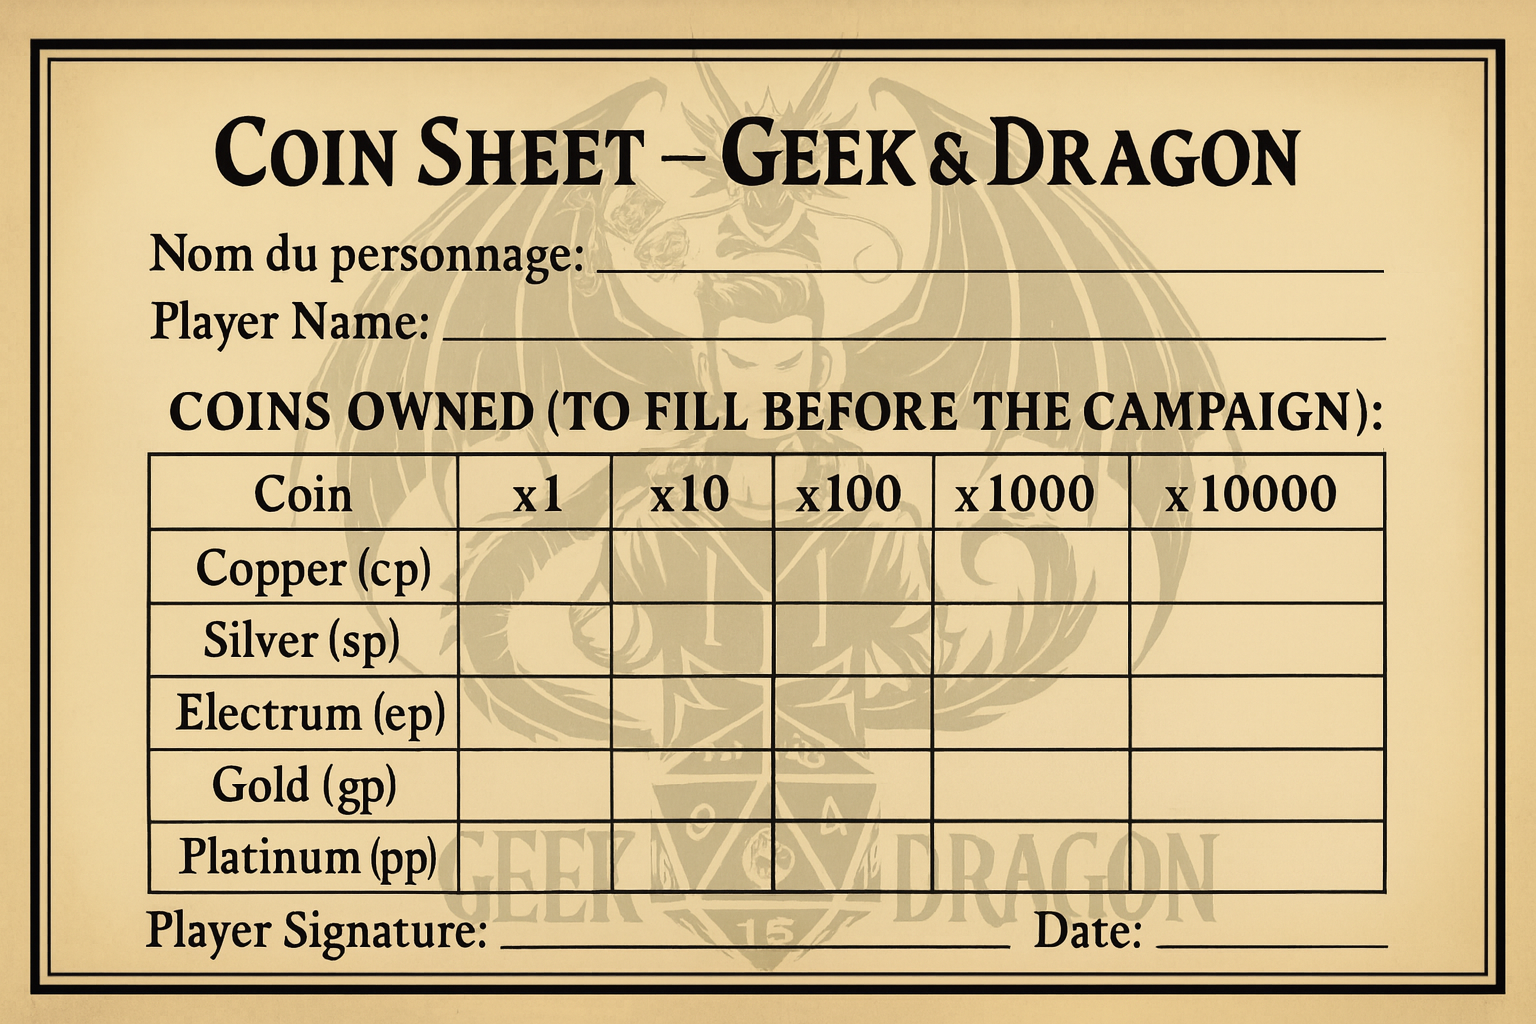
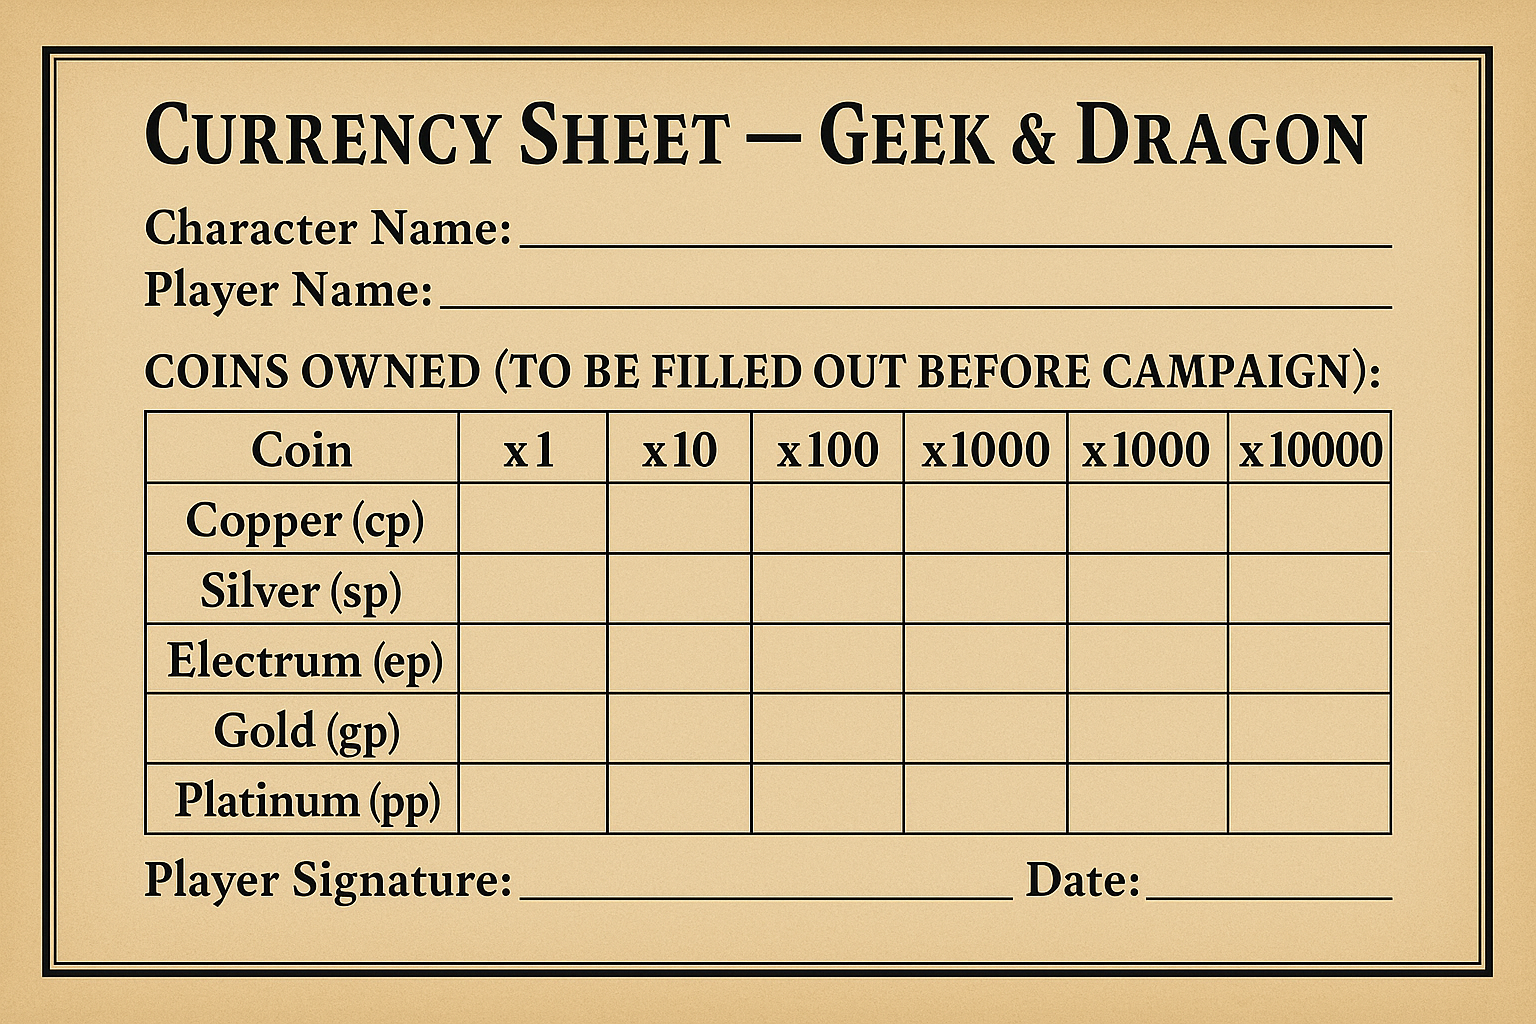
modification header dans aide de jeux

diff --git a/aide-jeux.php b/aide-jeux.php
@@ -63,9 +63,9 @@ $extraHead = <<<HTML
     padding: 12px !important;
   }
   
-  /* Assurer que les boutons sont assez grands pour le touch */
-  .btn,
-  button:not(.music-btn):not(#music-mute):not(#music-prev):not(#music-next):not(#music-play-pause) {
+  /* Assurer que les boutons sont assez grands pour le touch (sauf header et nav) */
+  main .btn,
+  main button:not(.music-btn):not(#music-mute):not(#music-prev):not(#music-next):not(#music-play-pause) {
     min-height: 44px !important;
     padding: 12px 16px !important;
     touch-action: manipulation !important;
@@ -875,94 +875,7 @@ $extraHead = <<<HTML
   }
 }
 
-/* === FIX NAVIGATION HEADER === */
-/* Force l'affichage de la navigation qui était masquée */
-@media (min-width: 768px) {
-  /* Forcer l'affichage de la navigation desktop */
-  header nav[aria-label="Navigation principale"] {
-    display: block !important;
-    visibility: visible !important;
-    opacity: 1 !important;
-    position: static !important;
-    transform: none !important;
-  }
-  
-  /* Forcer l'affichage des liens de navigation */
-  header nav[aria-label="Navigation principale"] > ul {
-    display: flex !important;
-    visibility: visible !important;
-    opacity: 1 !important;
-  }
-  
-  header nav[aria-label="Navigation principale"] > ul > li {
-    display: list-item !important;
-    visibility: visible !important;
-    opacity: 1 !important;
-  }
-  
-  /* Masquer les sous-menus par défaut */
-  header nav[aria-label="Navigation principale"] li ul {
-    display: none !important;
-    visibility: hidden !important;
-    opacity: 0 !important;
-  }
-  
-  /* Afficher les sous-menus seulement au hover */
-  header nav[aria-label="Navigation principale"] li:hover > ul {
-    display: flex !important;
-    visibility: visible !important;
-    opacity: 1 !important;
-  }
-  
-  /* Plus spécifique : uniquement les liens DANS la navigation */
-  header nav[aria-label="Navigation principale"] ul a {
-    display: block !important;
-    visibility: visible !important;
-    opacity: 1 !important;
-    color: white !important;
-  }
-  
-  header #lang-switcher {
-    display: flex !important;
-    visibility: visible !important;
-    opacity: 1 !important;
-  }
-}
-
-/* Fix navigation mobile */
-@media (max-width: 767px) {
-  header nav[aria-label="Navigation principale"] {
-    display: none !important;
-  }
-  
-  header #mobile-menu {
-    display: none !important;
-  }
-  
-  header #menu-btn {
-    display: block !important;
-  }
-}
-
-/* Assurer que UNIQUEMENT les liens de navigation sont visibles - pas le titre */
-header nav[aria-label="Navigation principale"] .nav-link {
-  opacity: 1 !important;
-  visibility: visible !important;
-  color: white !important;
-}
-
-/* Assurer que les boutons langue sont visibles */
-header .flag-btn {
-  opacity: 1 !important;
-  visibility: visible !important;
-}
-
-/* S'assurer que le titre reste intact et visible */
-.site-title {
-  opacity: 1 !important;
-  visibility: visible !important;
-  color: white !important;
-}
+/* Header utilise les styles globaux - pas de surcharge ici */
 </style>
 HTML;
 
@@ -1047,41 +960,33 @@ echo $snipcartInit;
   <section class="min-h-screen flex items-center justify-center text-center relative text-white">
     <div class="hero-videos absolute inset-0 w-full h-full" style="z-index:-1" data-main="/media/videos/backgrounds/mage_compressed.mp4" data-videos='["/media/videos/backgrounds/cascade_HD_compressed.mp4","/media/videos/backgrounds/fontaine11_compressed.mp4","/media/videos/backgrounds/Carte1_compressed.mp4","/media/videos/backgrounds/fontaine4_compressed.mp4","/media/videos/backgrounds/fontaine3_compressed.mp4","/media/videos/backgrounds/fontaine2_compressed.mp4","/media/videos/backgrounds/fontaine1_compressed.mp4","/media/videos/backgrounds/trip2_compressed.mp4"]'></div>
     <div class="absolute inset-0 bg-black/60"></div>
-    <div class="relative z-10 max-w-3xl p-6 hero-text">
+    <div class="relative z-10 max-w-5xl p-6 hero-text">
       <h1 class="text-5xl font-extrabold mb-6" data-i18n="gameHelp.hero.title">
         <?= __('gameHelp.hero.title', 'Guide des Triptyques') ?>
       </h1>
-      <p class="text-xl mb-2 txt-court" data-i18n="gameHelp.hero.subtitle">
+      <p class="text-xl mb-8 txt-court" data-i18n="gameHelp.hero.subtitle">
         <?= __('gameHelp.hero.subtitle', 'Maîtrisez vos fiches de personnage Geek & Dragon') ?>
       </p>
-      <a href="#guide-triptyques" class="btn btn-primary" data-hide-price="1" data-i18n="gameHelp.buttons.discover">
-        <?= __('gameHelp.buttons.discover', 'Découvrir les Triptyques') ?>
-      </a>
-    </div>
-  </section>
 
-  <!-- ===== NAVIGATION RAPIDE ===== -->
-  <section id="menu-guides" class="py-12 bg-gray-800/50 scroll-mt-24">
-    <div class="max-w-6xl mx-auto px-6">
-      <h2 class="text-2xl font-bold text-center mb-8 text-white"><?= __('gameHelp.navigation.quickNav', 'Navigation Rapide') ?></h2>
-      <div class="grid md:grid-cols-3 gap-6">
-        <a href="#guide-triptyques" class="group bg-gradient-to-br from-indigo-900/50 to-purple-900/50 rounded-xl p-6 border border-indigo-500/30 hover:border-indigo-400/50 transition-all">
+      <!-- Navigation des guides -->
+      <div class="grid md:grid-cols-3 gap-6 max-w-4xl mx-auto">
+        <a href="#guide-triptyques" class="group bg-gradient-to-br from-indigo-900/50 to-purple-900/50 rounded-xl p-6 border border-indigo-500/30 hover:border-indigo-400/50 transition-all backdrop-blur-sm">
           <div class="text-center">
             <div class="text-4xl mb-3">📜</div>
             <h3 class="text-xl font-bold text-indigo-400 mb-2"><?= __('gameHelp.navigation.triptychsGuide', 'Guide des Triptyques') ?></h3>
             <p class="text-gray-300 text-sm"><?= __('gameHelp.navigation.triptychsSubtitle', 'Espèce, Classe, Historique - D&D 2024') ?></p>
           </div>
         </a>
-        
-        <a href="#guide-cartes" class="group bg-gradient-to-br from-emerald-900/50 to-teal-900/50 rounded-xl p-6 border border-emerald-500/30 hover:border-emerald-400/50 transition-all">
+
+        <a href="#guide-cartes" class="group bg-gradient-to-br from-emerald-900/50 to-teal-900/50 rounded-xl p-6 border border-emerald-500/30 hover:border-emerald-400/50 transition-all backdrop-blur-sm">
           <div class="text-center">
             <div class="text-4xl mb-3">🃏</div>
             <h3 class="text-xl font-bold text-emerald-400 mb-2"><?= __('gameHelp.navigation.cardsGuide', 'Guide des Cartes') ?></h3>
             <p class="text-gray-300 text-sm"><?= __('gameHelp.navigation.cardsSubtitle', 'Armes, Équipements, Sorts') ?></p>
           </div>
         </a>
-        
-        <a href="#guide-monnaie" class="group bg-gradient-to-br from-amber-900/50 to-yellow-900/50 rounded-xl p-6 border border-amber-500/30 hover:border-amber-400/50 transition-all">
+
+        <a href="#guide-monnaie" class="group bg-gradient-to-br from-amber-900/50 to-yellow-900/50 rounded-xl p-6 border border-amber-500/30 hover:border-amber-400/50 transition-all backdrop-blur-sm">
           <div class="text-center">
             <div class="text-4xl mb-3">💰</div>
             <h3 class="text-xl font-bold text-amber-400 mb-2"><?= __('gameHelp.navigation.coinGuide', 'Guide de la Monnaie') ?></h3>
@@ -2176,8 +2081,12 @@ echo $snipcartInit;
           <!-- Image carte de propriété cliquable -->
           <div class="order-2 md:order-1 flex flex-col">
             <div class="bg-gray-800/30 rounded-xl p-6 border border-amber-600/20">
+              <?php
+              // Détection automatique de la langue pour l'image de la carte de propriété
+              $carteProprietePath = ($lang === 'en') ? '/media/content/carte_propriete-en.webp' : '/media/content/carte_propriete.webp';
+              ?>
               <div class="relative group cursor-pointer" onclick="downloadMoneySheet()">
-                <img src="/media/content/carte_propriete.webp" alt="<?= __('gameHelp.images.propertyCard', 'Carte de propriété des pièces Geek & Dragon') ?>" 
+                <img src="<?= $carteProprietePath ?>" alt="<?= __('gameHelp.images.propertyCard', 'Carte de propriété des pièces Geek & Dragon') ?>"
                      class="rounded-lg shadow-lg w-full object-cover border border-amber-600/30 transition-all duration-300 group-hover:shadow-2xl group-hover:scale-105" loading="lazy">
                 
                 <!-- Overlay de téléchargement au survol -->
@@ -2738,10 +2647,14 @@ function closeDownloadPopup() {
 }
 
 function confirmDownload() {
-    // Lancer le téléchargement
+    // Lancer le téléchargement avec détection automatique de la langue
+    const currentLang = document.documentElement.lang || 'fr';
+    const imagePath = (currentLang === 'en') ? '/media/content/carte_propriete-en.webp' : '/media/content/carte_propriete.webp';
+    const fileName = (currentLang === 'en') ? 'currency-sheet-geek-dragon.webp' : 'fiche-monnaie-geek-dragon.webp';
+
     const link = document.createElement('a');
-    link.href = '/media/content/carte_propriete.webp';
-    link.download = 'fiche-monnaie-geek-dragon.webp';
+    link.href = imagePath;
+    link.download = fileName;
     document.body.appendChild(link);
     link.click();
     document.body.removeChild(link);

diff --git a/test-header.php b/test-header.php
@@ -1,0 +1,36 @@
+<!DOCTYPE html>
+<html lang="fr">
+<head>
+    <meta charset="UTF-8">
+    <meta name="viewport" content="width=device-width, initial-scale=1.0">
+    <title>Test Header Navigation</title>
+    <link rel="stylesheet" href="/css/styles.css">
+</head>
+<body>
+    <?php
+    $active = '';
+    include 'header.php';
+    ?>
+
+    <main style="padding-top: 200px;">
+        <div style="height: 2000px; padding: 40px;">
+            <h1>Test du Header avec Navigation</h1>
+            <p>Scrollez vers le bas pour voir la navigation disparaître.</p>
+            <p>Scrollez vers le haut pour la voir réapparaître.</p>
+
+            <div style="margin-top: 500px;">
+                <h2>Section du milieu</h2>
+                <p>Continuez à scroller...</p>
+            </div>
+
+            <div style="margin-top: 500px;">
+                <h2>Fin de page</h2>
+                <p>Remontez pour tester l'animation</p>
+            </div>
+        </div>
+    </main>
+
+    <script src="/js/header-scroll-animation.js"></script>
+    <script src="/js/app.bundle.min.js"></script>
+</body>
+</html>

diff --git a/boutique.php b/boutique.php
@@ -504,7 +504,11 @@ echo $snipcartInit;
   <section class="py-16 bg-gray-900/80">
     <div class="max-w-6xl mx-auto px-6 flex flex-col md:flex-row items-center gap-10">
       <div class="md:w-1/3">
-        <img src="/media/content/carte_propriete.webp" alt="Carte de propriété à remplir" class="rounded-xl shadow-lg w-full object-cover" loading="lazy">
+        <?php
+        // Détection automatique de la langue pour l'image de la carte de propriété
+        $carteProprietePath = ($lang === 'en') ? '/media/content/carte_propriete-en.webp' : '/media/content/carte_propriete.webp';
+        ?>
+        <img src="<?= $carteProprietePath ?>" alt="<?= __('shop.collective.propertyCard.alt', 'Carte de propriété à remplir') ?>" class="rounded-xl shadow-lg w-full object-cover" loading="lazy">
       </div>
       <div class="md:w-2/3 text-gray-200 space-y-4">
         <h3 class="text-3xl font-bold" data-i18n="shop.collective.title">Investissez ensemble, partagez l’aventure</h3>
